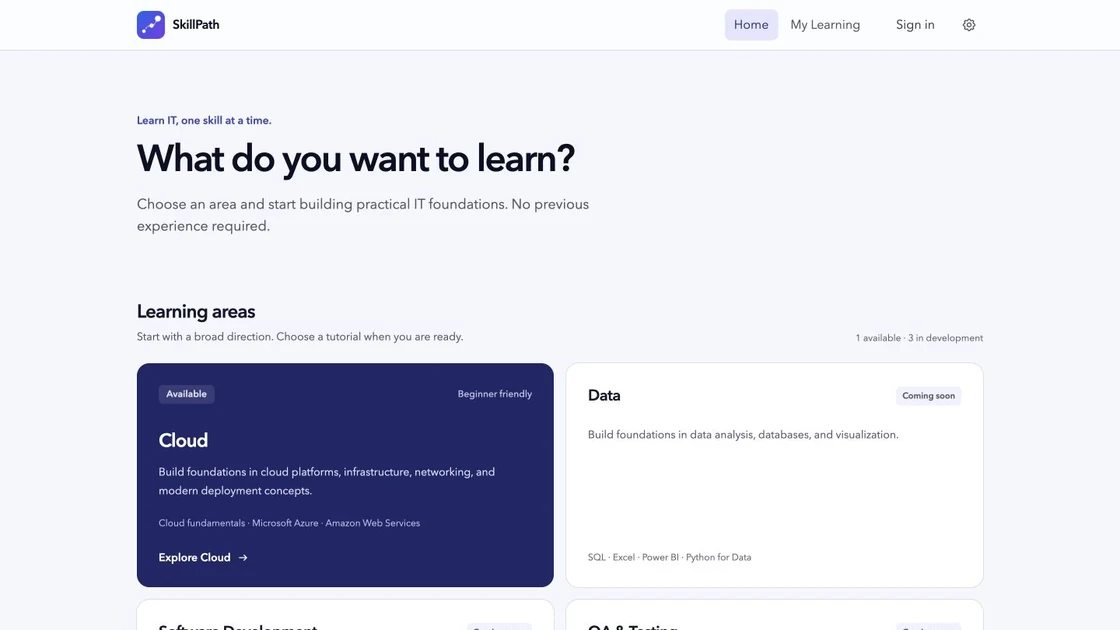
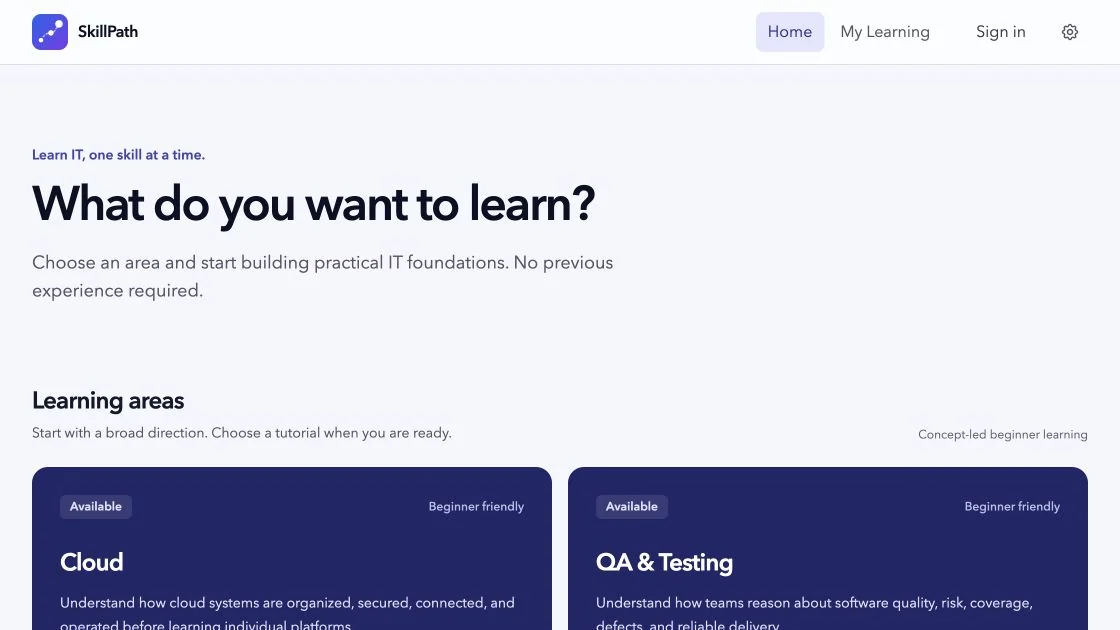
Refresh project previews and interactions

diff --git a/script.js b/script.js
@@ -46,35 +46,57 @@ if ("IntersectionObserver" in window && sections.length) {
   sections.forEach((section) => sectionObserver.observe(section));
 }
 
+const projectRevealItems = [...document.querySelectorAll("[data-project-reveal]")];
+const prefersReducedMotion = window.matchMedia("(prefers-reduced-motion: reduce)");
+
+if (!prefersReducedMotion.matches && "IntersectionObserver" in window) {
+  document.documentElement.classList.add("motion-enabled");
+
+  const projectRevealObserver = new IntersectionObserver(
+    (entries) => {
+      entries.forEach((entry) => {
+        if (!entry.isIntersecting) return;
+        entry.target.classList.add("is-visible");
+        projectRevealObserver.unobserve(entry.target);
+      });
+    },
+    { rootMargin: "0px 0px -12%", threshold: 0.18 },
+  );
+
+  projectRevealItems.forEach((item) => projectRevealObserver.observe(item));
+} else {
+  projectRevealItems.forEach((item) => item.classList.add("is-visible"));
+}
+
 const projectDetails = {
   newstart: {
     title: "NewStart NZ",
-    lead: "A housing and safety guide that helps newcomers compare Auckland locations through rent, budget, and crime data.",
+    lead: "An interactive Auckland dashboard for comparing housing cost and safety through official rent, crime, boundary, and population data.",
     problem: "People arriving in Auckland need to judge affordability and safety together, but the official answers live in separate datasets and use incompatible geographic boundaries.",
-    engineering: "A reconciliation layer combines 556 rent regions and 416 police regions, then a zero-build Leaflet interface turns the result into one filterable decision view.",
-    evidence: ["Official MBIE rent data", "NZ Police safety data", "Missing coverage remains visible"],
-    stack: "Python · MBIE Market Rent API v2 · NZ Police data · Leaflet · HTML",
+    engineering: "A Python data pipeline reconciles 548 MBIE rent areas and 412 Police areas against 172 LINZ suburbs. The standalone dashboard turns the result into a map, rankings, distributions, regional comparisons, and a rent-versus-safety view.",
+    evidence: ["Rent and crime aligned to July 2025–June 2026", "Map, rankings, distributions, and regional comparisons", "Source areas and missing data remain visible"],
+    stack: "Python · MBIE Market Rent API v2 · NZ Police data · LINZ · Leaflet · HTML",
     visual: {
-      src: "assets/newstart-nz-preview.webp?v=complete",
-      srcset: "assets/newstart-nz-preview.webp?v=complete 560w, assets/newstart-nz-preview@2x.webp?v=complete 1120w",
+      src: "assets/newstart-nz-preview.webp?v=wide-dashboard",
+      srcset: "assets/newstart-nz-preview.webp?v=wide-dashboard 560w, assets/newstart-nz-preview@2x.webp?v=wide-dashboard 1120w",
       sizes: "(max-width: 680px) calc(100vw - 72px), 700px",
-      alt: "NewStart NZ interface showing rent and safety filters beside an Auckland map",
+      alt: "NewStart NZ dashboard showing Auckland filters, map, rent and safety rankings, and comparison charts",
       width: 1120,
-      height: 700,
+      height: 603,
     },
   },
   skillpath: {
     title: "SkillPath",
-    lead: "A beginner-friendly platform for building foundational skills across Cloud, Data, and Software Development through structured learning paths, guided lessons, practice, and progress tracking.",
-    problem: "IT learning resources are often fragmented or assume too much prior knowledge, making it difficult for beginners to know what to learn next.",
-    engineering: "A scalable full-stack content model organises learning areas into paths, tutorials, lessons, practice content, and assessments. Admin tools manage each layer as the platform expands into additional IT subjects.",
-    evidence: ["Cloud, Data, and Software Development", "Topic-based lessons and knowledge checks", "Progress tracking and optional certification preparation", "Admin content management"],
-    stack: "React 19 · TypeScript · Vite · Tailwind CSS · Python",
+    lead: "A full-stack learning platform that gives beginners and aspiring IT professionals a clear path from first concepts to guided practice.",
+    problem: "People starting in IT often do not know which skills to learn first, how different topics connect, or what to study next. Existing resources are scattered and frequently assume prior knowledge.",
+    engineering: "The React client connects to an ASP.NET Core API backed by EF Core and SQLite. A shared curriculum and progress model supports multiple learning paths, the API grades answers, and each module remembers where the learner stopped.",
+    evidence: ["Structured learning paths and ordered modules", "Lessons, knowledge checks, and practice modes", "Persistent progress and per-module resume position", "Role-protected content administration"],
+    stack: "React 19 · TypeScript 6 · ASP.NET Core (.NET 10) · EF Core 10 · SQLite",
     visual: {
-      src: "assets/skillpath-dashboard-wide.webp?v=learning-areas",
-      srcset: "assets/skillpath-dashboard-wide.webp?v=learning-areas 560w, assets/skillpath-dashboard-wide@2x.webp?v=learning-areas 1120w",
+      src: "assets/skillpath-dashboard-wide.webp?v=latest-home",
+      srcset: "assets/skillpath-dashboard-wide.webp?v=latest-home 560w, assets/skillpath-dashboard-wide@2x.webp?v=latest-home 1120w",
       sizes: "(max-width: 680px) calc(100vw - 72px), 680px",
-      alt: "SkillPath homepage showing Cloud, Data, Software Development, and QA learning areas",
+      alt: "SkillPath homepage presenting structured learning areas for people starting in IT",
       width: 1120,
       height: 630,
     },

diff --git a/index.html b/index.html
@@ -17,8 +17,8 @@
     <meta property="og:url" content="https://pds1123.github.io/" />
     <link rel="canonical" href="https://pds1123.github.io/" />
     <link rel="icon" href="assets/favicon.svg" type="image/svg+xml" />
-    <link rel="stylesheet" href="styles.css?v=minimal-portfolio" />
-    <script src="script.js?v=minimal-portfolio" defer></script>
+    <link rel="stylesheet" href="styles.css?v=motion-pass-3" />
+    <script src="script.js?v=motion-pass-3" defer></script>
     <title>Disi Pan | Full-stack Developer in Auckland</title>
   </head>
 
@@ -73,13 +73,13 @@
         </div>
 
         <div class="project-list">
-          <article class="project-entry">
+          <article class="project-entry" data-project-reveal>
             <div class="page-shell project-inner">
               <div class="project-summary">
                 <h3>NewStart NZ</h3>
                 <p>
-                  An Auckland housing and safety guide that helps newcomers compare rent, budget,
-                  and crime data before choosing where to live.
+                  An Auckland housing and safety dashboard that brings official rent, crime,
+                  boundary, and population data into one place for newcomers.
                 </p>
                 <button class="button button-primary" type="button" data-project-open="newstart">View details</button>
               </div>
@@ -89,24 +89,24 @@
                   <p>NewStart NZ</p>
                 </div>
                 <img
-                  src="assets/newstart-nz-preview.webp?v=complete"
-                  srcset="assets/newstart-nz-preview.webp?v=complete 560w, assets/newstart-nz-preview@2x.webp?v=complete 1120w"
+                  src="assets/newstart-nz-preview.webp?v=wide-dashboard"
+                  srcset="assets/newstart-nz-preview.webp?v=wide-dashboard 560w, assets/newstart-nz-preview@2x.webp?v=wide-dashboard 1120w"
                   sizes="(max-width: 760px) calc(100vw - 48px), 1040px"
-                  alt="NewStart NZ interface showing rent and safety filters beside an Auckland map"
+                  alt="NewStart NZ dashboard showing Auckland filters, map, rent and safety rankings, and comparison charts"
                   width="1120"
-                  height="700"
+                  height="603"
                 />
               </figure>
             </div>
           </article>
 
-          <article class="project-entry project-entry-soft">
+          <article class="project-entry project-entry-soft" data-project-reveal>
             <div class="page-shell project-inner">
               <div class="project-summary">
                 <h3>SkillPath</h3>
                 <p>
-                  A beginner-friendly IT learning platform with structured paths, guided lessons,
-                  practice activities, progress tracking, and admin-managed content.
+                  A full-stack learning platform that helps beginners and aspiring IT
+                  professionals understand what to learn next.
                 </p>
                 <button class="button button-primary" type="button" data-project-open="skillpath">View details</button>
               </div>
@@ -116,10 +116,10 @@
                   <p>SkillPath</p>
                 </div>
                 <img
-                  src="assets/skillpath-dashboard-wide.webp?v=learning-areas"
-                  srcset="assets/skillpath-dashboard-wide.webp?v=learning-areas 560w, assets/skillpath-dashboard-wide@2x.webp?v=learning-areas 1120w"
+                  src="assets/skillpath-dashboard-wide.webp?v=latest-home"
+                  srcset="assets/skillpath-dashboard-wide.webp?v=latest-home 560w, assets/skillpath-dashboard-wide@2x.webp?v=latest-home 1120w"
                   sizes="(max-width: 760px) calc(100vw - 48px), 1040px"
-                  alt="SkillPath homepage showing Cloud, Data, Software Development, and QA learning areas"
+                  alt="SkillPath homepage presenting structured learning areas for people starting in IT"
                   width="1120"
                   height="630"
                 />
@@ -127,7 +127,7 @@
             </div>
           </article>
 
-          <article class="project-entry">
+          <article class="project-entry" data-project-reveal>
             <div class="page-shell project-inner">
               <div class="project-summary">
                 <h3>Movies Management App</h3>

diff --git a/styles.css b/styles.css
@@ -28,6 +28,7 @@
   --page: min(1160px, calc(100% - 48px));
   --header-height: 66px;
   --ease-out: cubic-bezier(0.16, 1, 0.3, 1);
+  --ease-out-quart: cubic-bezier(0.25, 1, 0.5, 1);
 }
 
 *,
@@ -253,6 +254,7 @@ a {
 .hero h1 {
   max-width: 760px;
   font-size: clamp(3.4rem, 7vw, 5.5rem);
+  animation: hero-title-arrive 720ms var(--ease-out) both;
 }
 
 .hero-intro {
@@ -262,6 +264,7 @@ a {
   font-size: clamp(1.05rem, 1.5vw, 1.24rem);
   line-height: 1.55;
   text-wrap: pretty;
+  animation: hero-side-arrive 620ms 130ms var(--ease-out) both;
 }
 
 .button {
@@ -294,6 +297,31 @@ a {
 
 .hero-side .button {
   margin-top: 30px;
+  animation: hero-side-arrive 620ms 220ms var(--ease-out) both;
+}
+
+@keyframes hero-title-arrive {
+  from {
+    filter: blur(4px);
+    transform: translateY(22px);
+  }
+
+  to {
+    filter: blur(0);
+    transform: translateY(0);
+  }
+}
+
+@keyframes hero-side-arrive {
+  from {
+    filter: blur(2px);
+    transform: translateY(14px);
+  }
+
+  to {
+    filter: blur(0);
+    transform: translateY(0);
+  }
 }
 
 .work-section {
@@ -344,6 +372,7 @@ a {
   flex-direction: column;
   align-items: flex-start;
   text-align: left;
+  transition: transform 560ms var(--ease-out);
 }
 
 .project-summary h3 {
@@ -353,6 +382,7 @@ a {
   letter-spacing: -0.035em;
   line-height: 1;
   text-wrap: balance;
+  transition: color 220ms ease;
 }
 
 .project-summary p {
@@ -376,6 +406,8 @@ a {
   border-radius: 14px;
   background: var(--white);
   box-shadow: 0 4px 12px rgba(67, 35, 56, 0.1);
+  translate: 0 0;
+  transition: box-shadow 280ms ease, transform 560ms var(--ease-out), translate 280ms var(--ease-out-quart);
 }
 
 .browser-bar {
@@ -409,6 +441,45 @@ a {
   width: 100%;
   height: auto;
   background: var(--surface);
+  transform: scale(1);
+  transition: transform 420ms var(--ease-out);
+}
+
+.motion-enabled [data-project-reveal] .project-summary {
+  transform: translateY(18px);
+}
+
+.motion-enabled [data-project-reveal] .project-browser {
+  transform: translateY(24px);
+}
+
+.motion-enabled [data-project-reveal].is-visible .project-summary,
+.motion-enabled [data-project-reveal].is-visible .project-browser {
+  transform: translateY(0);
+}
+
+@media (hover: hover) and (pointer: fine) {
+  .project-entry:hover .project-summary h3 {
+    color: var(--accent-strong);
+  }
+
+  .project-entry:hover .project-browser,
+  .motion-enabled [data-project-reveal].is-visible:hover .project-browser {
+    box-shadow: 0 6px 8px rgba(67, 35, 56, 0.14);
+    translate: 0 -4px;
+  }
+
+  .project-entry:hover .project-browser img {
+    transform: scale(1.02);
+  }
+
+  .tech-icon-list li {
+    transition: transform 220ms var(--ease-out-quart);
+  }
+
+  .tech-icon-list li:hover {
+    transform: translateY(-3px);
+  }
 }
 
 .skills-section {
@@ -608,18 +679,41 @@ a {
   border-radius: 14px;
   background: var(--bg);
   color: var(--ink);
+  opacity: 0;
   box-shadow: 0 4px 12px rgba(40, 16, 30, 0.22);
+  transform: translateY(14px) scale(0.985);
+  transition: opacity 220ms ease, transform 300ms var(--ease-out), overlay 300ms allow-discrete,
+    display 300ms allow-discrete;
 }
 
 .project-dialog::backdrop {
   background: rgba(40, 16, 30, 0.58);
   -webkit-backdrop-filter: blur(3px);
   backdrop-filter: blur(3px);
+  opacity: 0;
+  transition: opacity 220ms ease, overlay 300ms allow-discrete, display 300ms allow-discrete;
 }
 
 .project-dialog[open] {
   display: grid;
   grid-template-rows: auto minmax(0, 1fr);
+  opacity: 1;
+  transform: translateY(0) scale(1);
+}
+
+.project-dialog[open]::backdrop {
+  opacity: 1;
+}
+
+@starting-style {
+  .project-dialog[open] {
+    opacity: 0;
+    transform: translateY(14px) scale(0.985);
+  }
+
+  .project-dialog[open]::backdrop {
+    opacity: 0;
+  }
 }
 
 .dialog-topline {
@@ -680,6 +774,22 @@ a {
 .dialog-visual img {
   width: 100%;
   height: auto;
+}
+
+.project-dialog[open] .dialog-visual {
+  animation: dialog-visual-arrive 420ms 80ms var(--ease-out) both;
+}
+
+@keyframes dialog-visual-arrive {
+  from {
+    clip-path: inset(0 0 8% 0 round 10px);
+    transform: translateY(10px);
+  }
+
+  to {
+    clip-path: inset(0 round 10px);
+    transform: translateY(0);
+  }
 }
 
 .dialog-grid {
